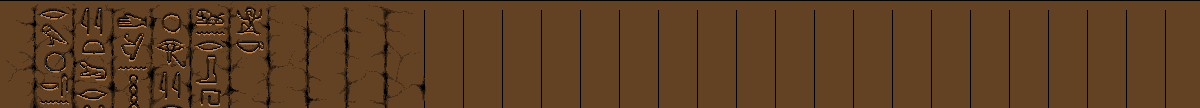
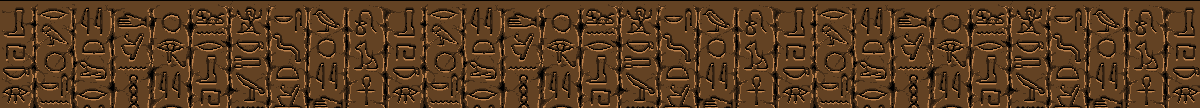
More HUD art work, added a texture sampling interval disable flag

diff --git a/SoftEngine/Source/Graphics/Rasterizer.cpp b/SoftEngine/Source/Graphics/Rasterizer.cpp
@@ -9,6 +9,7 @@
 #include <Graphics/ColorBuffer.h>
 #include <System/Geometry.h>
 #include <System/Objects.h>
+#include <System/Flags.h>
 #include <UI/Alert.h>
 
 namespace Soft {
@@ -215,9 +216,13 @@ int Rasterizer::getMipmapLevel(float averageDepth) {
 }
 
 int Rasterizer::getTextureSampleInterval(int lineLength, float averageDepth) {
-	int interval = (int)(2000.0f / averageDepth) - (int)(1000.0f / lineLength);
+	if (flags & Flags::DISABLE_TEXTURE_SAMPLING_INTERVAL) {
+		return 1;
+	} else {
+		int interval = (int)(2000.0f / averageDepth) - (int)(1000.0f / lineLength);
 
-	return FAST_CLAMP(interval, MIN_TEXTURE_SAMPLE_INTERVAL, MAX_TEXTURE_SAMPLE_INTERVAL);
+		return FAST_CLAMP(interval, MIN_TEXTURE_SAMPLE_INTERVAL, MAX_TEXTURE_SAMPLE_INTERVAL);
+	}
 }
 
 int Rasterizer::getTotalBufferedScanlines() {
@@ -287,6 +292,10 @@ void Rasterizer::setDrawColor(int R, int G, int B) {
 
 void Rasterizer::setDrawColor(const Color& color) {
 	setDrawColor(color.R, color.G, color.B);
+}
+
+void Rasterizer::setFlags(int flags) {
+	this->flags = flags;
 }
 
 void Rasterizer::setOffset(const Coordinate& offset) {

diff --git a/SoftEngine/Library/Graphics/Rasterizer.h b/SoftEngine/Library/Graphics/Rasterizer.h
@@ -45,6 +45,7 @@ public:
 	void setDrawColor(int R, int G, int B);
 	void setDrawColor(const Color& color);
 	void setDrawColor(Uint32 color);
+	void setFlags(int flags);
 	void setOffset(const Coordinate& offset);
 	void setVisibility(int visibility);
 	void triangle(int x1, int y1, int x2, int y2, int x3, int y3);
@@ -63,6 +64,7 @@ private:
 	Coordinate offset;
 	int width;
 	int height;
+	int flags = 0;
 
 	void dispatchFlatTriangle(const Vertex2d& corner, const Vertex2d& left, const Vertex2d& right, const TextureBuffer* texture);
 	void dispatchFlatBottomTriangle(const Vertex2d& top, const Vertex2d& bottomLeft, const Vertex2d& bottomRight, const TextureBuffer* texture);

diff --git a/SoftEngine/Source/Engine.cpp b/SoftEngine/Source/Engine.cpp
@@ -304,6 +304,8 @@ void Engine::initialize() {
 	}
 
 	SDL_SetRelativeMouseMode(SDL_TRUE);
+
+	rasterizer->setFlags(flags);
 }
 
 void Engine::lockProportionalRasterRegion(int xp, int yp, int wp, int hp) {
@@ -410,6 +412,7 @@ void Engine::resizeRasterRegion() {
 	rasterFilter = new RasterFilter(rasterWidth, rasterHeight);
 
 	rasterizer->setOffset({ rasterRegion.x, rasterRegion.y });
+	rasterizer->setFlags(flags);
 }
 
 void Engine::setActiveScene(Scene* scene) {
@@ -550,6 +553,8 @@ void Engine::toggleFlag(Flags flag) {
 			SDL_SetWindowResizable(window, (flags & DISABLE_WINDOW_RESIZE) ? SDL_FALSE : SDL_TRUE);
 			break;
 	}
+
+	rasterizer->setFlags(flags);
 }
 
 /**

diff --git a/SoftEngine/Library/System/Flags.h b/SoftEngine/Library/System/Flags.h
@@ -13,7 +13,8 @@ enum Flags {
 	PIXEL_FILTER = 1 << 3,
 	DISABLE_MULTITHREADING = 1 << 4,
 	DISABLE_WINDOW_RESIZE = 1 << 5,
-	FPS_30 = 1 << 6
+	DISABLE_TEXTURE_SAMPLING_INTERVAL = 1 << 6,
+	FPS_30 = 1 << 7
 };
 
 } // namespace Soft
